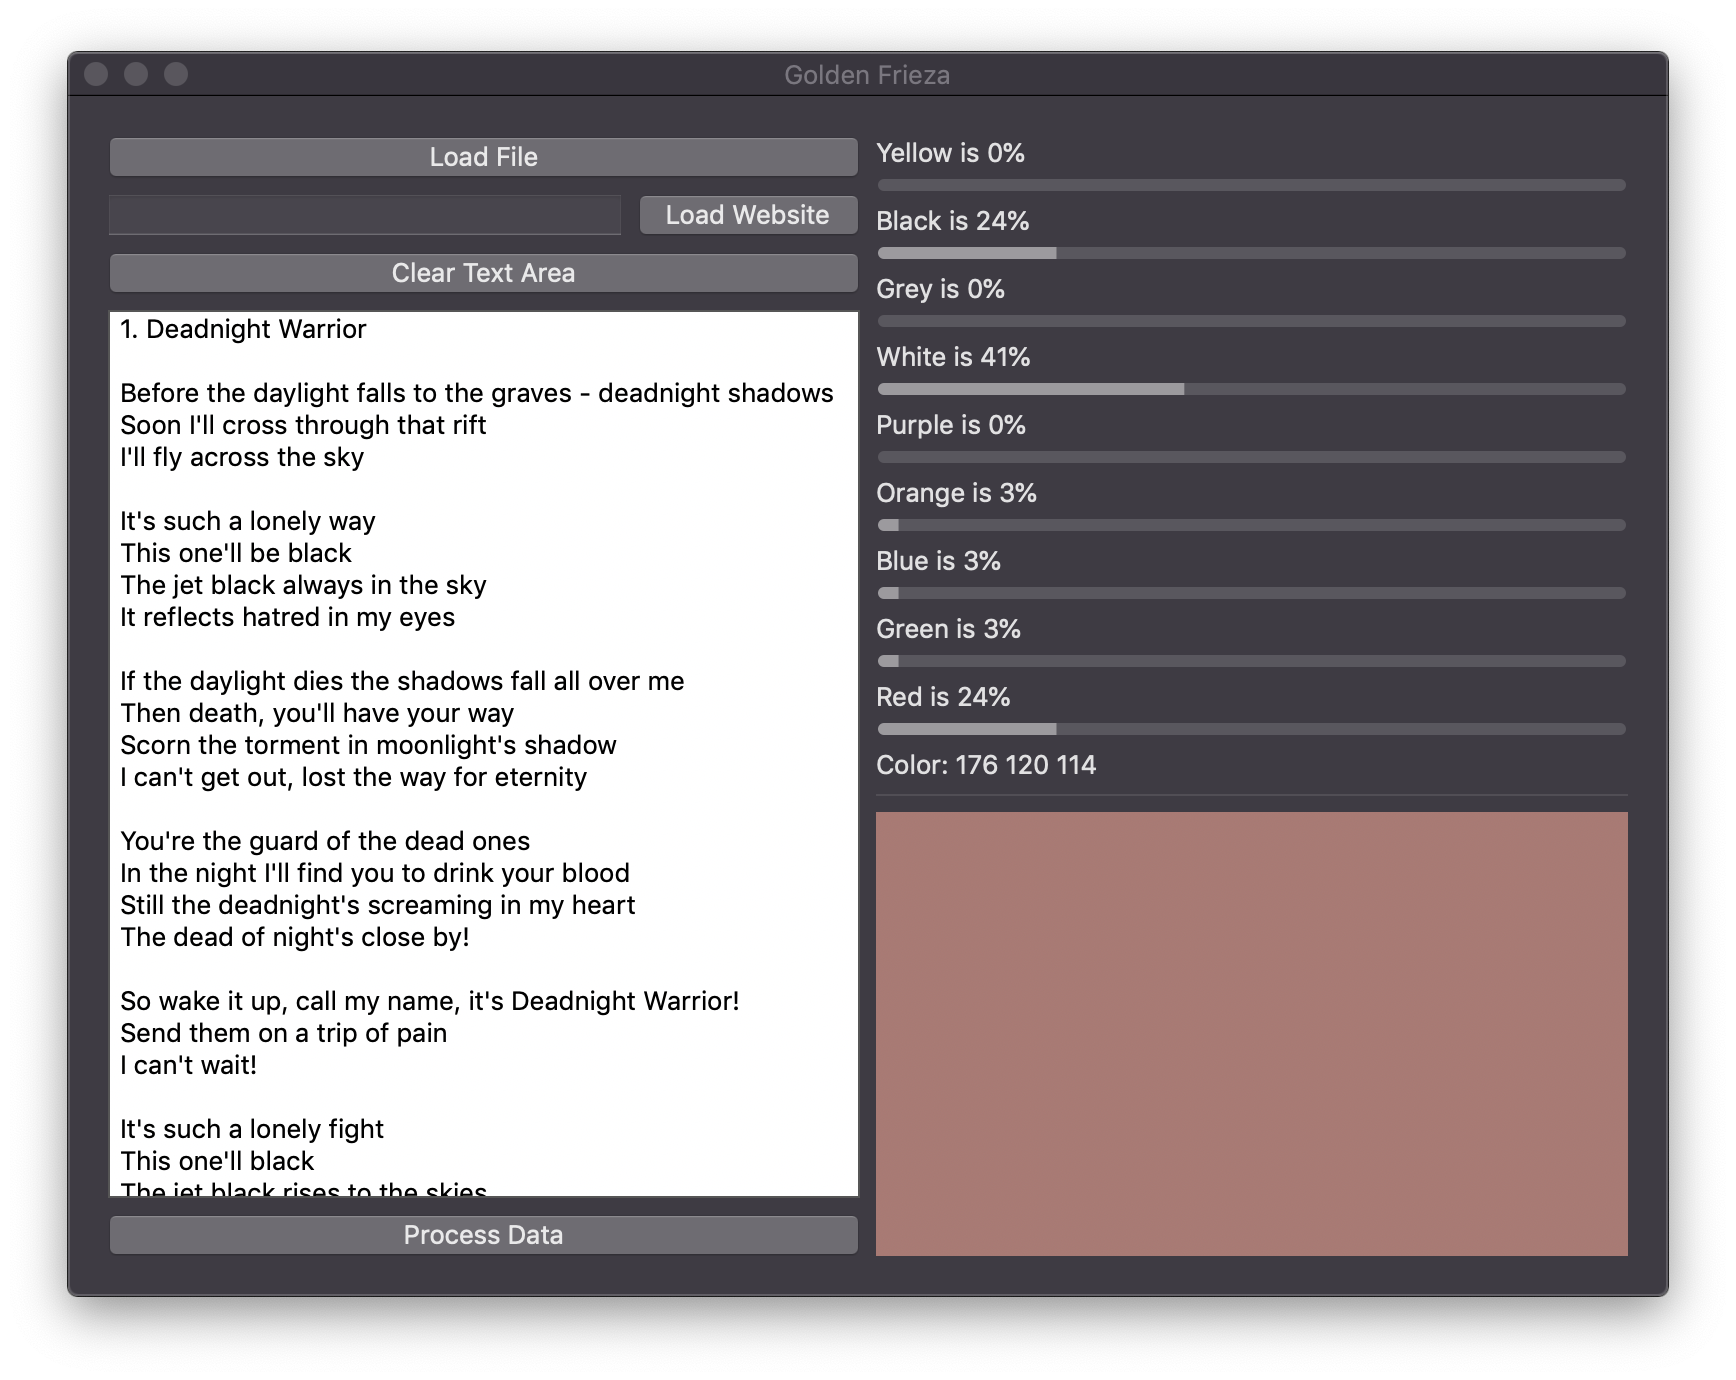
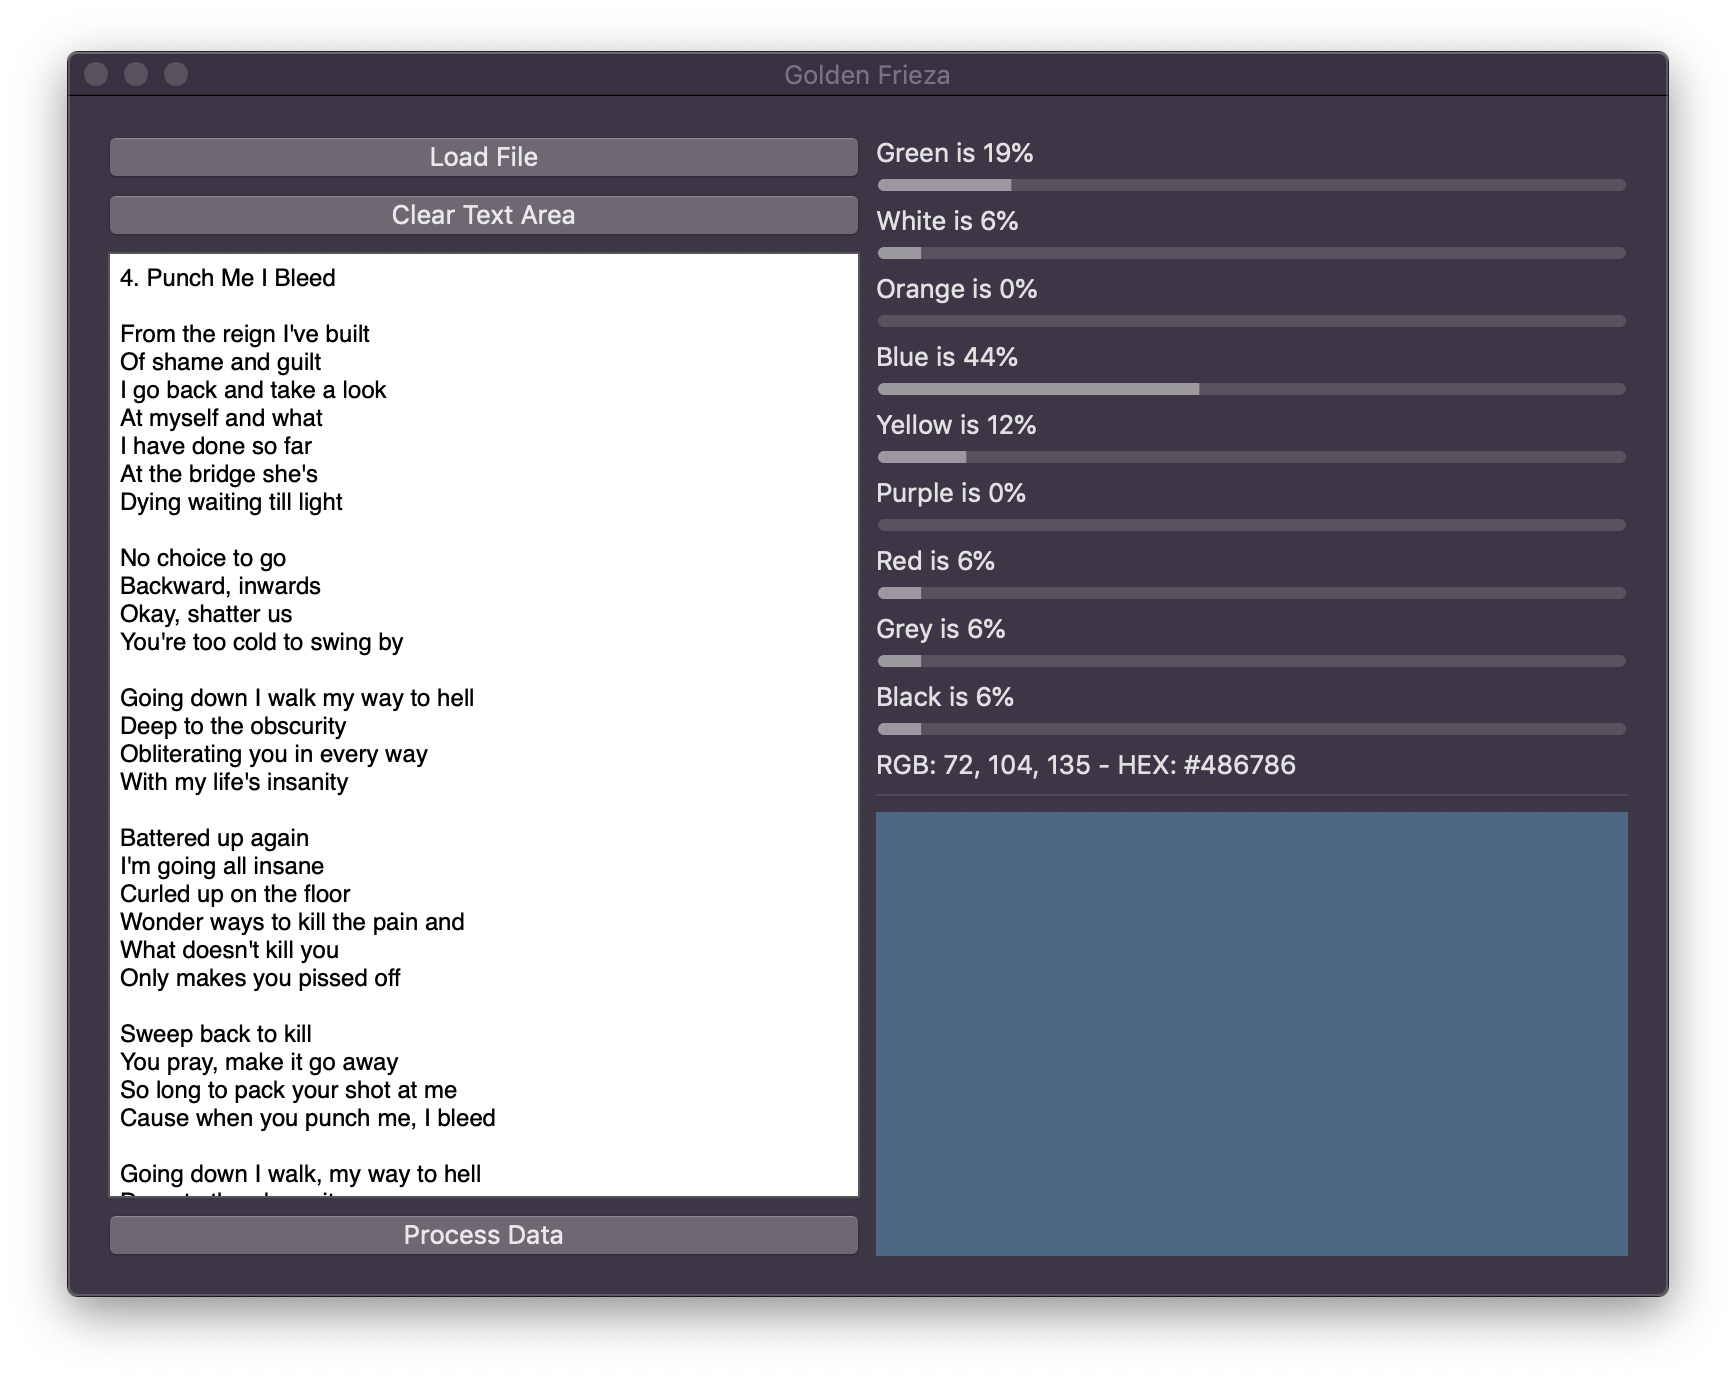
Removed website processing (for now) and added new screenshot

Changed region(s): [[0.0622, 0.0935, 0.6221, 0.8725], [0.4977, 0.4674, 0.9643, 0.9348], [0.4977, 0.2493, 0.591, 0.4674]]

diff --git a/src/lib.rs b/src/lib.rs
@@ -13,9 +13,6 @@ use std::io::prelude::*;
 use std::iter::FromIterator;
 use std::path::Path;
 
-// Build with CXXFLAGS=-stdlib=libc++ cargo run
-// TODO: Find the way to add this to the build script
-
 type RGB = [f32; 3];
 
 #[derive(Default)]
@@ -25,7 +22,7 @@ pub struct DisplayColors {
 
 impl DisplayColors {
     pub fn load_dictionary(path: &Path) -> DisplayColors {
-        let mut reader = Reader::from_path(path).unwrap();
+        let mut reader = Reader::from_path(path).expect("Cannot load Color dictionary");
         let mut dictionary: HashMap<String, RGB> = HashMap::new();
 
         for record in reader.deserialize() {
@@ -66,7 +63,7 @@ pub struct Color {
     pub matches: usize,
 }
 
-#[derive(Default, PartialEq)]
+#[derive(Default, Debug, PartialEq)]
 pub struct Document {
     pub content: String,
 }
@@ -79,8 +76,6 @@ impl Document {
     }
 
     pub fn from_file(path: &Path) -> Option<Document> {
-        // TODO: Handle only text files
-
         let mut file = File::open(&path).expect("File not found");
         let mut contents = String::new();
 
@@ -189,6 +184,3 @@ pub fn calculate_percentages(
 
     result
 }
-
-#[cfg(test)]
-mod tests;

diff --git a/src/tests.rs b/src/tests.rs
@@ -248,14 +248,22 @@ fn test_process_file() {
     INIT_COLOR_DICTIONARY!(colors, dictionary);
 
     let document = Document::from_file(Path::new("resources/test/sample_file.txt"));
-    // TODO: Check if file is valid
-    colors.count_occurences(&document.unwrap());
+    colors.count_occurences(&document.expect("Text file cannot be parsed"));
 
     let mut result: HashMap<String, usize> = HashMap::new();
     result.insert(String::from("Black"), 1);
     result.insert(String::from("White"), 1);
 
     assert_eq!(colors.occurrences, result);
+}
+
+#[test]
+fn test_process_non_text_file() {
+    INIT_COLOR_DICTIONARY!(colors, dictionary);
+
+    let document = Document::from_file(Path::new("resources/test/image_file.png"));
+
+    assert_eq!(document, None);
 }
 
 #[test]

diff --git a/src/bin/golden-frieza.rs b/src/bin/golden-frieza.rs
@@ -17,7 +17,6 @@ use std::fs::File;
 use std::path::Path;
 use std::rc::Rc;
 
-// TODO: Load file
 // TODO: Load website
 // TODO: Support multiple languages
 
@@ -76,7 +75,7 @@ fn main() {
     website_hbox.set_padded(&ui, true);
 
     // Add to the input panel
-    input_vbox.append(&ui, website_hbox.clone(), LayoutStrategy::Compact);
+    // input_vbox.append(&ui, website_hbox.clone(), LayoutStrategy::Compact);
     input_vbox.append(&ui, load_file_button.clone(), LayoutStrategy::Compact);
     input_vbox.append(&ui, clear_textarea_button.clone(), LayoutStrategy::Compact);
     input_vbox.append(&ui, entry.clone(), LayoutStrategy::Stretchy);
